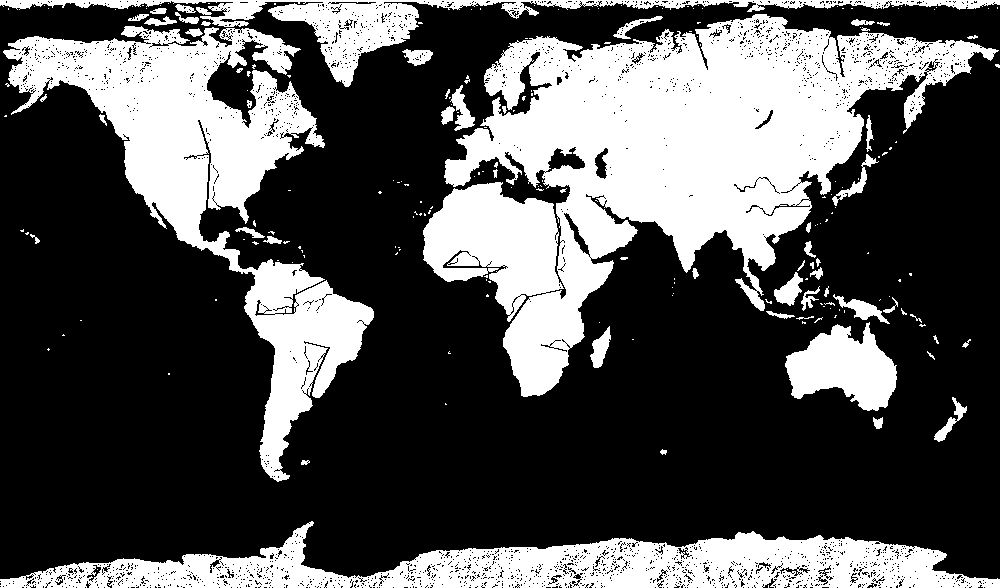
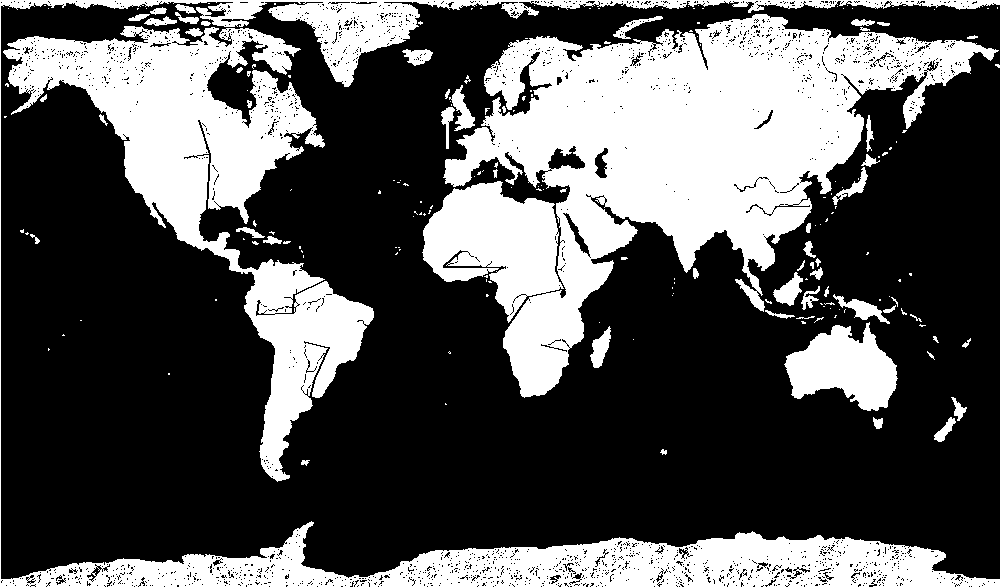
마스크 전면 재구축: 새로 제공된 실제 지도 이미지 기준으로 처음부터 다시 생성 (누적 덧칠 방지)

diff --git a/data/seaRoute/README.md b/data/seaRoute/README.md
@@ -91,3 +91,10 @@
 ## 업데이트 (2026-09-15, 9차) - 라인강 곡선 경로 반영
 - 이전 스크린샷(더블린~스트라스부르 구간)에서 추출한 라인강의 실제 굽이침을 앤트워프(실측)~쾰른~스트라스부르(정밀 추정치) 사이에 10개 지점 곡선으로 반영. 기존 3점 직선 근사보다 실제 형태에 가까움.
 - 사용자가 추가로 준 저해상도 세계지도(회색 박스로 일부 가려짐)로 재대조를 시도했으나, 하필 도버~앤트워프 구간 라벨이 가려져 있어 이번엔 기존 추정치를 그대로 사용.
+
+## 업데이트 (2026-09-15, 10차) - 마스크 전면 재구축 (사용자 제공 2번째 실제 지도 이미지 기준)
+이전 버전은 실수로 옛 마스크 위에 계속 덧그리는 식으로 누적됐음. 사용자가 새로 오려붙여 제공한 지도 이미지(1906x1125, 회색 파손 영역 포함)를 기준으로 마스크를 처음부터 재생성.
+- 회색 파손 영역(도버~앤트워프 부근)은 첫 번째 이미지(2995x1768)의 동일 좌표 영역을 리샘플링해서 메꾼 후 색상분류 진행.
+- 색상분류(바다 기준색 RGB[90,111,102], 거리임계값 20) 그대로 사용.
+- 축소 과정에서 유실된 가는 강(양쯔강-항주 구간, 야쿠트인의 마을 강)과 국소적 미세 연결틈(터코마 등)을 이전과 동일한 방식으로 재탐지해 보정.
+- 최종 검증: 강 관련 도시/마을, 남·북극항로 관련 도시 전부 대양에 연결됨 확인.
